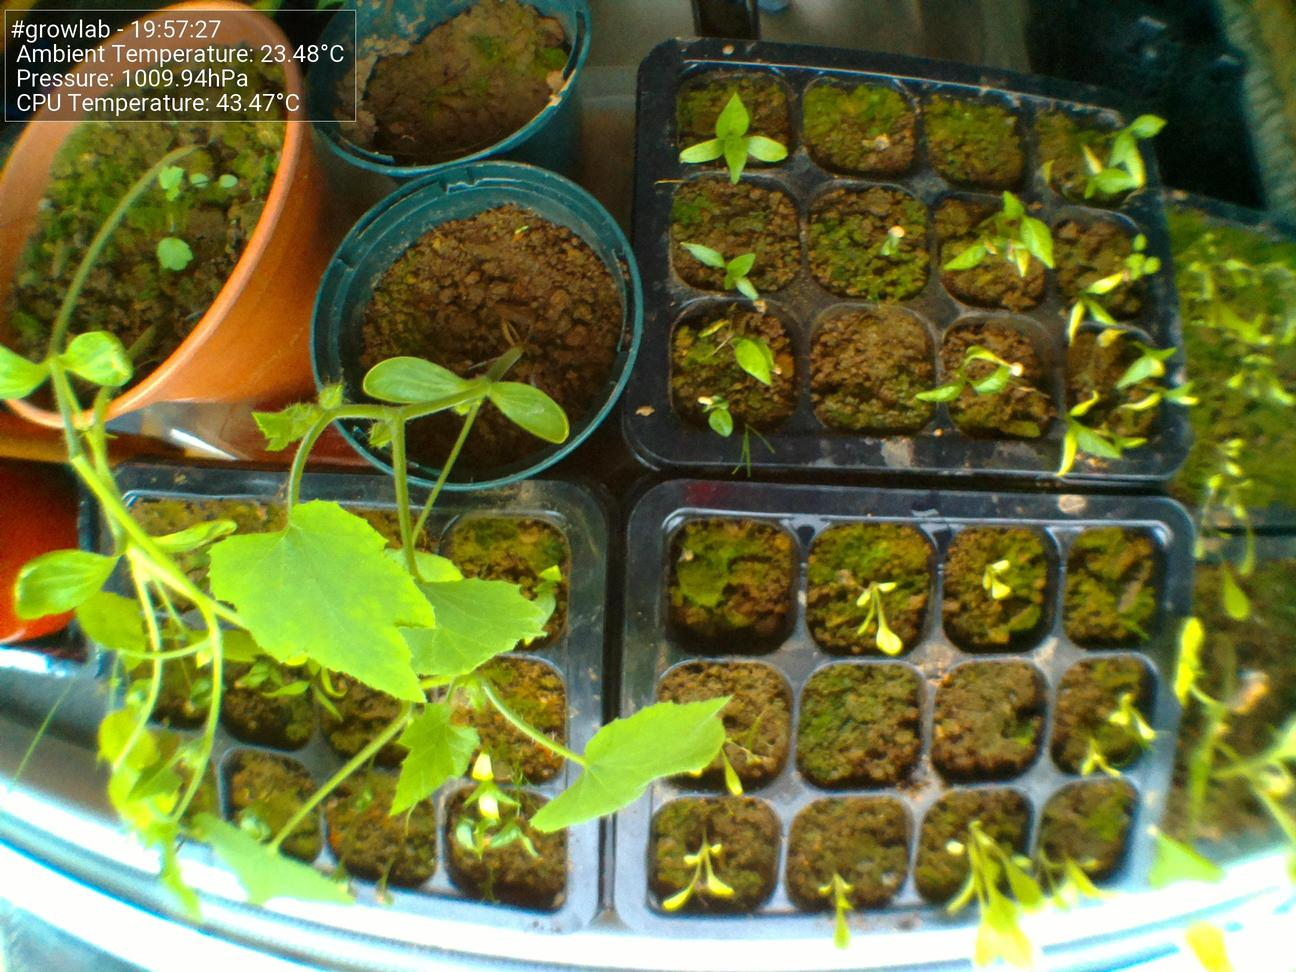
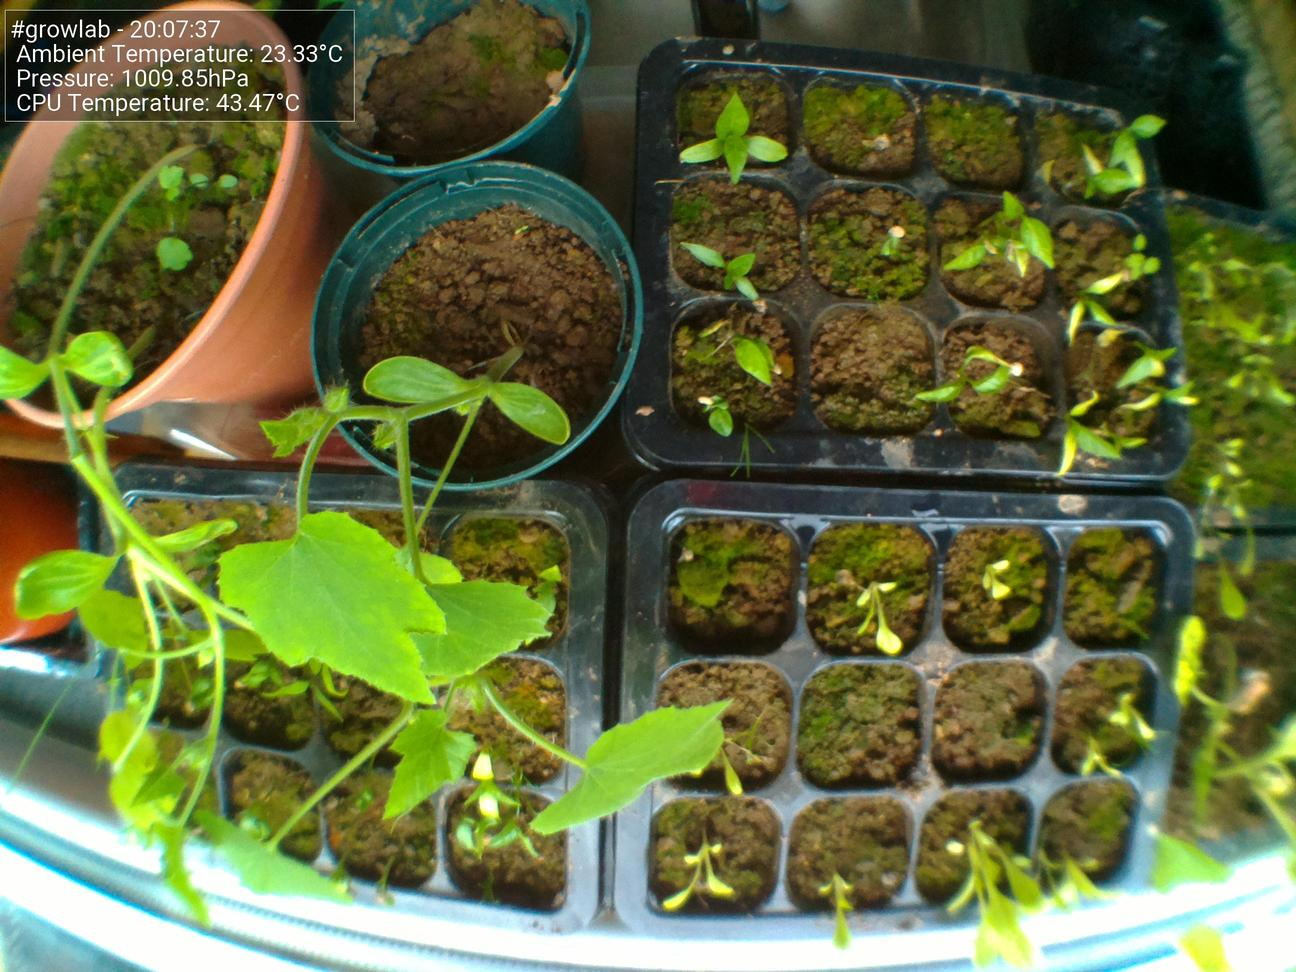
Update images at Sat 21 May 20:07:42 BST 2022

diff --git a/docs/index.html b/docs/index.html
@@ -44,7 +44,7 @@
                         <tbody>
                             <tr>
                                 <td>Time</td>
-                                <td>19:57:27</td>
+                                <td>20:07:37</td>
                             </tr>
                             <tr>
                                 <td>CPU Temp</td>
@@ -52,7 +52,7 @@
                             </tr>
                             <tr>
                                 <td>Ambient Temperature</td>
-                                <td>23.48°C</td>
+                                <td>23.33°C</td>
                             </tr>
                             <tr>
                                 <td>Humidity</td>
@@ -60,7 +60,7 @@
                             </tr>
                             <tr>
                                 <td>Pressure</td>
-                                <td>1009.94hPa</td>
+                                <td>1009.85hPa</td>
                             </tr>
                         </tbody>
                     </table>
@@ -68,7 +68,7 @@
 
                 <h5>Latest image</h5>
                 <div style="width: 85%;">
-                            <img class="figure-img img-fluid rounded" src="./preview.jpg?uid=1653159451.7627175">
+                            <img class="figure-img img-fluid rounded" src="./preview.jpg?uid=1653160061.9611878">
                 </div>
             </div>
         </div>
